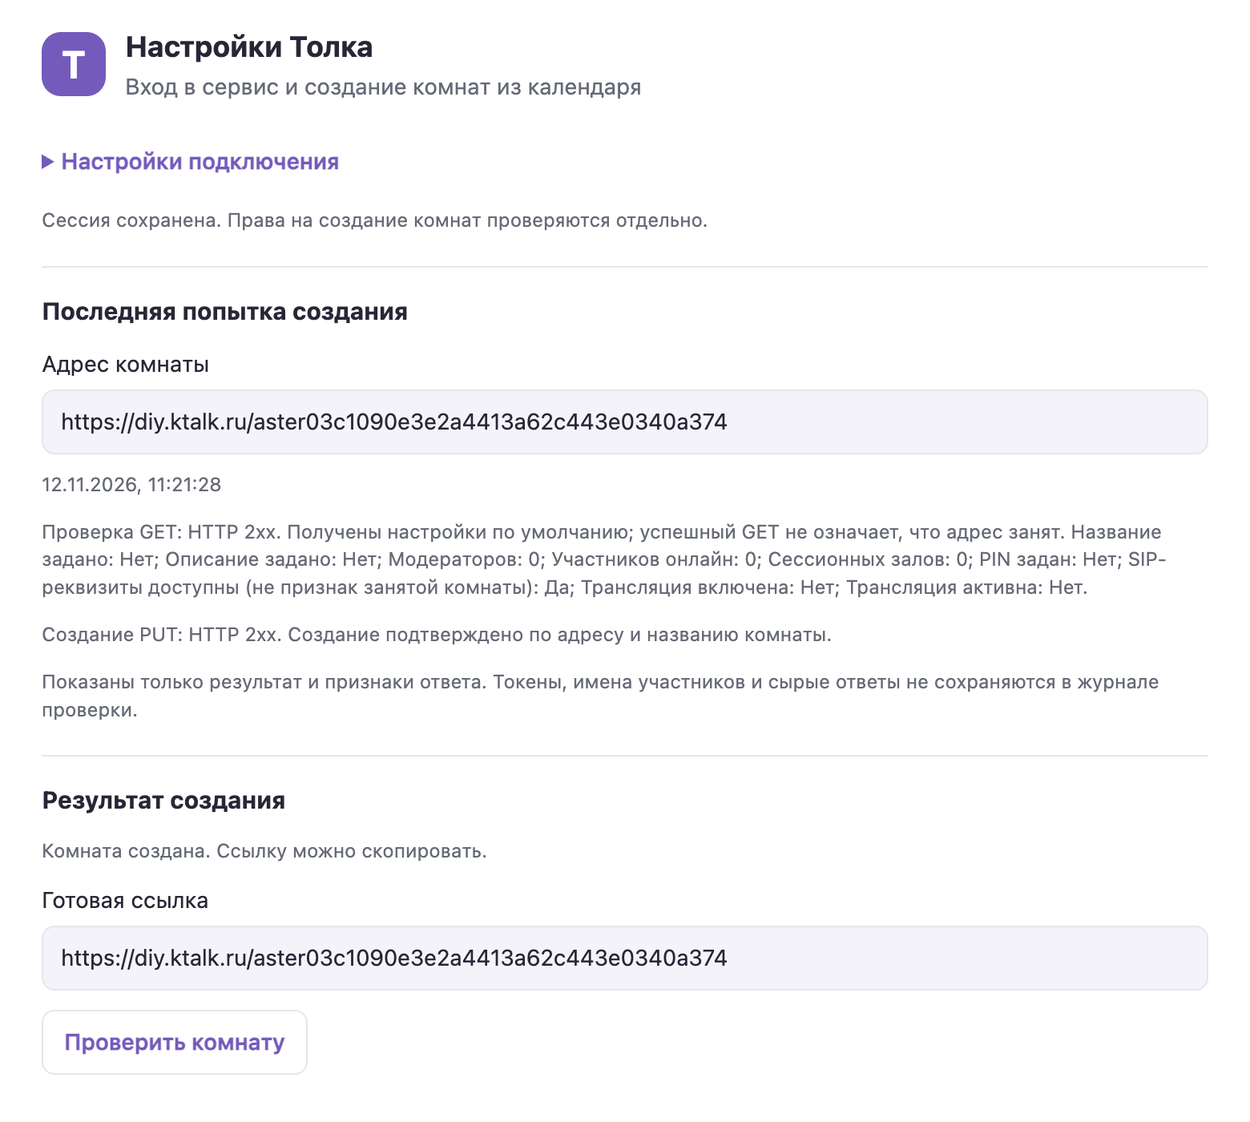
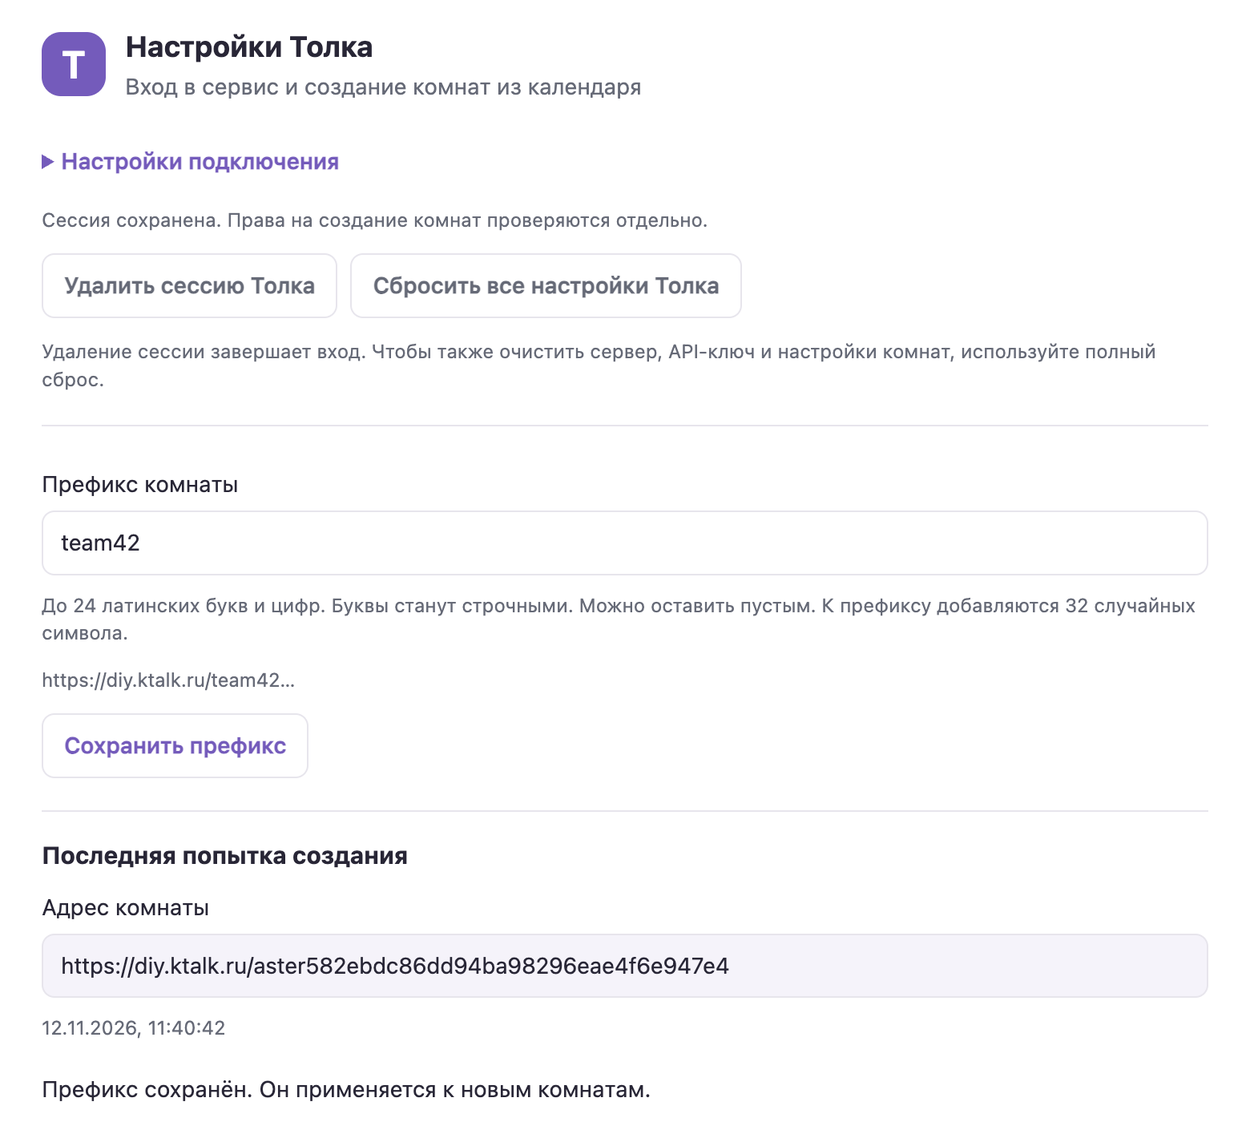
Add configurable room prefixes and visible session actions

Changed region(s): [[0.0308, 0.2457, 0.9538, 0.6757], [0.0308, 0.7986, 0.5846, 0.9829], [0.0308, 0.7064, 0.3692, 0.7679]]

diff --git a/ktalk/panel.js b/ktalk/panel.js
@@ -15,14 +15,19 @@ const messages = {
   unknown: 'Результат неизвестен. Проверьте комнату в Толке. Создание не повторяется.',
   rejected: 'Запрос отклонён. Проверьте ключ, его права и ограничения сервера.',
   notfound: 'Комната пока не найдена. При неизвестном результате проверьте её в Толке перед новым созданием.',
-  read: 'Не удалось прочитать комнату. Проверьте подключение и права ключа.'
+  read: 'Не удалось прочитать комнату. Проверьте подключение и права ключа.',
+  prefix: 'Префикс должен содержать до 24 латинских букв и цифр.'
 };
+function prefixPreview() {
+  $('#prefix-preview').textContent = `${state.server || 'https://company.ktalk.ru'}/${$('#room-prefix').value.trim().toLowerCase()}…`;
+}
 function render() {
   const auth = state.auth || {};
   $('#auth-state').textContent = auth.blockedOrigin ? `${tr('Этот сервер входа не поддержан версией модуля. Обновите модуль или сообщите его разработчику:')} ${auth.blockedOrigin}` : tr(auth.pending ? 'Завершите вход в отдельном окне Толка.' : auth.connected && auth.origin === state.server ? 'Сессия сохранена. Права на создание комнат проверяются отдельно.' : 'Для создания комнат войдите в Толк или укажите ключ API.');
   $('#key-hint').textContent = tr(state.hasKey ? 'Ключ сохранён. Оставьте поле пустым, чтобы сохранить его.' : 'Ключ нужен только для создания комнат.');
   $('#clear-key').disabled = !state.hasKey;
   $('#logout').disabled = !auth.connected && !auth.pending;
+  prefixPreview();
   $('#last-attempt').hidden = !state.lastAttempt;
   if (state.lastAttempt) {
     $('#attempt-url').value = state.lastAttempt.url;
@@ -63,6 +68,12 @@ $('#settings').addEventListener('submit', async event => {
   await run('save', { server: $('#server').value, apiKey: $('#api-key').value }, 'Настройки сохранены.');
   $('#api-key').value = '';
 });
+$('#room-prefix').addEventListener('input', prefixPreview);
+$('#room-settings').addEventListener('submit', async event => {
+  event.preventDefault();
+  const value = await run('save-prefix', { prefix: $('#room-prefix').value }, 'Префикс сохранён. Он применяется к новым комнатам.');
+  if (value && !value.error) { $('#room-prefix').value = value.roomPrefix; prefixPreview(); }
+});
 $('#clear-key').addEventListener('click', async () => {
   await run('save', { server: state.server, apiKey: '', clearKey: true }, 'Настройки сохранены.'); $('#api-key').value = '';
 });
@@ -72,14 +83,14 @@ $('#login').addEventListener('click', async () => {
   const value = await run('save', { server: $('#server').value, apiKey: $('#api-key').value }); $('#api-key').value = '';
   if (value && !value.error) await run('login');
 });
-$('#logout').addEventListener('click', () => run('logout'));
+$('#logout').addEventListener('click', async () => { const value = await run('logout'); if (value && !value.error) $('#connection').open = true; });
 $('#reset').addEventListener('click', async () => {
   if ($('#reset').dataset.confirmed !== 'true') {
     $('#reset').dataset.confirmed = 'true'; $('#reset').textContent = tr('Подтвердить полный сброс');
     $('#status').textContent = tr('Будут удалены сервер, API-ключ, сессия и настройки комнат. Комнаты на сервере сохранятся.'); return;
   }
   const value = await run('reset', { confirm: true }, 'Настройки Толка очищены.');
-  if (value && !value.error) { $('#server').value = ''; $('#api-key').value = ''; $('#ack').checked = false; }
+  if (value && !value.error) { $('#server').value = ''; $('#api-key').value = ''; $('#room-prefix').value = value.roomPrefix; prefixPreview(); $('#connection').open = true; $('#ack').checked = false; }
   delete $('#reset').dataset.confirmed; $('#reset').textContent = tr('Сбросить все настройки Толка');
 });
 $('#acknowledge').addEventListener('click', async () => { await run('acknowledge', { confirm: $('#ack').checked }); $('#ack').checked = false; });
@@ -90,10 +101,12 @@ try {
   for (const element of document.querySelectorAll('[data-text]')) element.textContent = tr(element.textContent);
   state = await bridge.command('settings');
   $('#server').value = state.server;
+  $('#room-prefix').value = state.roomPrefix;
+  $('#connection').open = !(state.auth?.connected && state.auth.origin === state.server);
   for (const server of state.servers.filter(value => value !== 'https://app.ktalk.ru')) { const option = document.createElement('option'); option.value = server; $('#servers').append(option); }
   render();
 } catch { $('#status').textContent = tr('Не удалось выполнить действие. Проверьте введённые данные и состояние модуля.'); }
 setInterval(async () => {
   if (busy || !state.auth?.pending) return;
-  try { state.auth = await bridge.call('auth.status'); if (state.auth.connected && !state.auth.pending) $('#connection').open = false; render(); } catch { /* Account retirement closes this view. */ }
+  try { state.auth = await bridge.call('auth.status'); if (state.auth.connected && state.auth.origin === state.server && !state.auth.pending) $('#connection').open = false; render(); } catch { /* Account retirement closes this view. */ }
 }, 1200);

diff --git a/ktalk/main.js b/ktalk/main.js
@@ -1,11 +1,11 @@
 import { servers } from './config.js';
 import { translator, roomError } from './i18n.js';
-import { serverOrigin, roomURL, newRoomName, draftPatch, inspectRoom } from './core.js';
+import { serverOrigin, roomURL, roomPrefix, newRoomName, draftPatch, inspectRoom } from './core.js';
 
 export async function activate(api) {
   const read = async () => (await api.call('storage.get')) || {};
   const save = value => api.call('storage.set', value);
-  const safe = state => ({ server: state.server || '', servers, hasKey: Boolean(state.apiKey), pending: state.pending || null, lastAttempt: state.lastAttempt || null });
+  const safe = state => ({ server: state.server || '', servers, roomPrefix: roomPrefix(state.roomPrefix), hasKey: Boolean(state.apiKey), pending: state.pending || null, lastAttempt: state.lastAttempt || null });
   const settings = async state => ({ ...safe(state), auth: await api.call('auth.status') });
   const request = (state, name, method = 'GET', body) => api.call('network.request', {
     url: `${state.server}/api/Rooms/${name}`, method, ...(body ? { body } : {}), ...(state.apiKey ? { headers: { 'x-auth-token': state.apiKey } } : { auth: 'session' })
@@ -17,7 +17,7 @@ export async function activate(api) {
     if (!state.server || !state.apiKey && (!auth.connected || auth.origin !== state.server)) return { error: 'key' };
     const title = typeof input.title === 'string' ? input.title.trim() : '';
     if (!title || title.length > 128 || input.confirm !== true) return { error: 'title' };
-    const name = newRoomName(), url = `${state.server}/${name}`;
+    const name = newRoomName(state.roomPrefix), url = `${state.server}/${name}`;
     state.lastAttempt = { url, at: new Date().toISOString(), check: { kind: 'checking' }, write: { kind: 'not-sent' } };
     await save(state);
     // PUT is an upsert. Use only our new random UUID, and reject visible existing
@@ -72,6 +72,12 @@ export async function activate(api) {
       return safe({ ...state, server, apiKey });
     },
     create: createRoom,
+    'save-prefix': async input => {
+      let prefix;
+      try { if (typeof input.prefix !== 'string') throw new Error('prefix'); prefix = roomPrefix(input.prefix); } catch { return { error: 'prefix' }; }
+      const state = await read();
+      state.roomPrefix = prefix; await save(state); return safe(state);
+    },
     'create-meeting-room': async (_input, context) => {
       const tr = translator((await api.call('ui.context')).language);
       const fail = message => ({ message: tr(message), error: true });
@@ -98,7 +104,7 @@ export async function activate(api) {
     },
     check: async () => {
       const state = await read(), pending = state.pending;
-      if (!pending || pending.server !== state.server || !state.server || !/^aster[a-f0-9]{32}$/.test(pending.name)) return { error: 'key' };
+      if (!pending || pending.server !== state.server || !state.server || !/^[a-z0-9]{0,24}[a-f0-9]{32}$/.test(pending.name)) return { error: 'key' };
       try {
         const room = await request(state, pending.name);
         state.lastAttempt ||= { url: pending.url, at: new Date().toISOString() };

diff --git a/ktalk/panel.html b/ktalk/panel.html
@@ -19,12 +19,20 @@
       <p id="key-hint" class="note"></p>
       <p class="note" data-text>Ключ создаёт администратор Толка: «Управление» → «API ключи» → «Добавить». Попросите права на чтение и изменение комнат. Для входа по готовой ссылке ключ не нужен.</p>
       <div class="actions"><button type="submit" data-text>Сохранить настройки</button><button id="clear-key" type="button" class="quiet" data-text>Удалить ключ</button></div>
-      <div class="actions"><button id="login" type="button" data-text>Войти через SSO пространства</button><button id="logout" type="button" class="quiet" data-text>Удалить сессию Толка</button></div>
-      <p class="note" data-text>Удаление сессии завершает вход. Чтобы также очистить сервер, API-ключ и настройки комнат, используйте полный сброс.</p>
-      <button id="reset" type="button" class="quiet" data-text>Сбросить все настройки Толка</button>
+      <div class="actions"><button id="login" type="button" data-text>Войти через SSO пространства</button></div>
     </form>
     </details>
     <p id="auth-state" class="note" role="status"></p>
+    <div class="actions"><button id="logout" type="button" class="quiet" data-text>Удалить сессию Толка</button><button id="reset" type="button" class="quiet" data-text>Сбросить все настройки Толка</button></div>
+    <p class="note" data-text>Удаление сессии завершает вход. Чтобы также очистить сервер, API-ключ и настройки комнат, используйте полный сброс.</p>
+    <section>
+      <form id="room-settings">
+        <label><span data-text>Префикс комнаты</span><input id="room-prefix" name="prefix" maxlength="24" pattern="[a-zA-Z0-9]*" autocomplete="off" autocapitalize="none" spellcheck="false" aria-describedby="prefix-hint prefix-preview"></label>
+        <p id="prefix-hint" class="note" data-text>До 24 латинских букв и цифр. Буквы станут строчными. Можно оставить пустым. К префиксу добавляются 32 случайных символа.</p>
+        <p id="prefix-preview" class="note"></p>
+        <button type="submit" data-text>Сохранить префикс</button>
+      </form>
+    </section>
     <section id="last-attempt" hidden>
       <h2 data-text>Последняя попытка создания</h2>
       <label><span data-text>Адрес комнаты</span><input id="attempt-url" readonly></label>

diff --git a/ktalk/i18n.js b/ktalk/i18n.js
@@ -1,4 +1,9 @@
 const en = {
+  'Префикс комнаты': 'Room prefix',
+  'До 24 латинских букв и цифр. Буквы станут строчными. Можно оставить пустым. К префиксу добавляются 32 случайных символа.': 'Up to 24 Latin letters and digits. Letters become lowercase. May be empty. A random 32-character suffix is added.',
+  'Сохранить префикс': 'Save prefix',
+  'Префикс должен содержать до 24 латинских букв и цифр.': 'The prefix must contain up to 24 Latin letters and digits.',
+  'Префикс сохранён. Он применяется к новым комнатам.': 'Prefix saved. It applies to new rooms.',
   'Последняя попытка создания': 'Last creation attempt',
   'Адрес комнаты': 'Room address',
   'Проверка GET': 'GET check',

diff --git a/ktalk/core.js b/ktalk/core.js
@@ -14,8 +14,15 @@ export function roomURL(value, origins) {
   return url.href;
 }
 
-export function newRoomName() {
-  return `aster${crypto.randomUUID().replaceAll('-', '')}`;
+export function roomPrefix(value = 'aster') {
+  if (typeof value !== 'string') throw new Error('prefix');
+  const prefix = value.trim().toLowerCase();
+  if (!/^[a-z0-9]{0,24}$/.test(prefix)) throw new Error('prefix');
+  return prefix;
+}
+
+export function newRoomName(prefix) {
+  return `${roomPrefix(prefix)}${crypto.randomUUID().replaceAll('-', '')}`;
 }
 
 // GET returns default settings for a fresh address, not necessarily a 404.

diff --git a/ktalk/README.md b/ktalk/README.md
@@ -1,6 +1,6 @@
 # Контур.Толк для Aster Mail
 
-Пакет `ru.ktalk.meetings`, версия `0.1.9`.
+Пакет `ru.ktalk.meetings`, версия `0.1.10`.
 
 Создаёт комнаты, поддерживает корпоративный вход и API-ключ, предлагает ссылки
 в черновик новой встречи и запускает установленный десктопный Толк после нажатия
@@ -83,9 +83,22 @@ SSO и Windows пока не проверены; могут потребоват
 не показывается.
 
 При создании отправляется только название;
-участники и описание встречи в Толк не передаются. Новый адрес — `aster` + случайный
-UUID без дефисов. После GET-проверки настроек адреса модуль один раз делает
+участники и описание встречи в Толк не передаются. Новый адрес — выбранный префикс
+(по умолчанию `aster`) + случайный UUID без дефисов. После GET-проверки настроек адреса модуль один раз делает
 `PUT /api/Rooms/{roomName}` с `{ "title": "…" }`.
+
+Префикс настраивается отдельно от подключения: до 24 латинских букв и цифр,
+пробелы по краям убираются, буквы становятся строчными. Пустой префикс разрешён.
+UUID всегда содержит 32 случайных шестнадцатеричных символа. Префикс не заменяет
+сервер пространства и не позволяет указать полный/чужой адрес. Изменение применяется
+только к новым комнатам, не переименовывает прежние и не повторяет неизвестные записи.
+Проверка старой комнаты работает и после изменения префикса. Настройка хранится
+в прежнем зашифрованном профиле и очищается полным сбросом.
+
+После успешного SSO, в том числе при повторном открытии панели, поля пространства
+и API-ключа свёрнуты в «Настройки подключения»; их можно раскрыть вручную.
+«Удалить сессию Толка» и «Сбросить все настройки Толка» всегда находятся снаружи.
+После удаления сессии или полного сброса поля подключения раскрываются.
 
 GET не является проверкой существования: для нового адреса Толк может вернуть
 HTTP 200 и настройки по умолчанию. Это проверено анонимным чтением публичного

diff --git a/docs/VERIFICATION.md b/docs/VERIFICATION.md
@@ -1,3 +1,28 @@
+# Проверка выпуска v0.1.12
+
+12 ноября 2026 года, macOS Apple Silicon, SDK Aster Mail 0.2.12.
+
+- 29 Node-тестов: префикс по умолчанию, пустой и пользовательский до 24 символов,
+  нормализация регистра/пробелов, отклонение пути/кириллицы/знаков/длинных значений,
+  полный 128-битный UUID, HTTPS calendar draft, восстановление и проверка прежней
+  комнаты после изменения префикса, сохранность ключа/pending и полный сброс.
+- Нативный fixture проверяет автоматическое сворачивание при восстановленной SSO-сессии,
+  расположение logout/reset вне details, сохранение префикса через настоящую форму,
+  сохранность сессии и pending, повторное открытие панели на 100/150/200%.
+  Снимки обновлены; прежние создание, SSO, миграция и logout продолжают проверяться.
+- Новая внутренняя команда save-prefix использует прежние storage/UI-права.
+  Значение валидируется в команде и общем генераторе, не интерполируется как origin
+  или произвольный путь. Проверка прежнего pending не зависит от текущего префикса.
+  Нет новых SDK-методов, origins, прав и зависимостей. settingsVersion остаётся 1:
+  отсутствующее поле имеет default aster без удаления или миграции прочих данных.
+- Изменение префикса не отправляет сетевых запросов и не изменяет/повторяет комнаты.
+  Действующие правила записи, защиты настроенных комнат и неопределённых PUT сохранены.
+  Кнопка полного сброса сохраняет подтверждение и блокировку неизвестного pending.
+
+Реальный корпоративный API/SSO и Windows не проверялись; все записи фиктивны.
+
+---
+
 # Проверка выпуска v0.1.11
 
 12 ноября 2026 года, macOS Apple Silicon, SDK Aster Mail 0.2.12.
